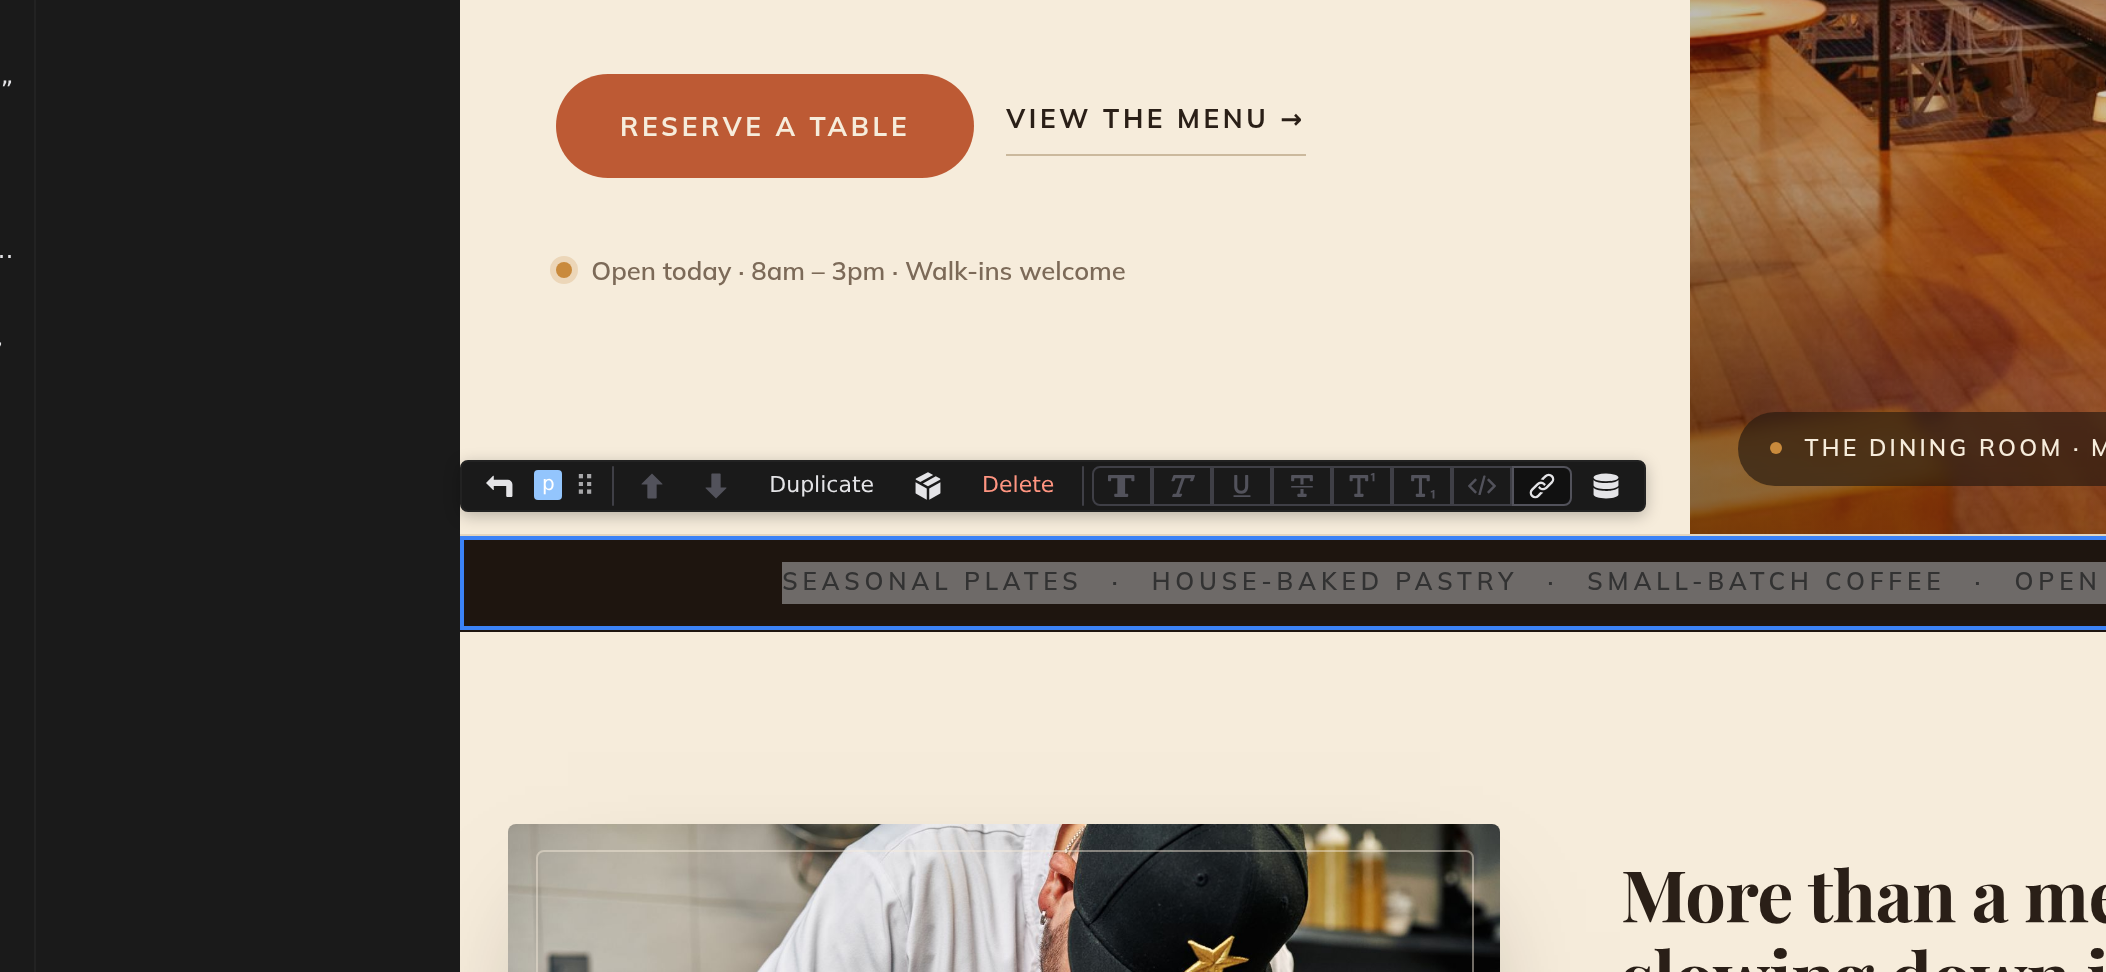
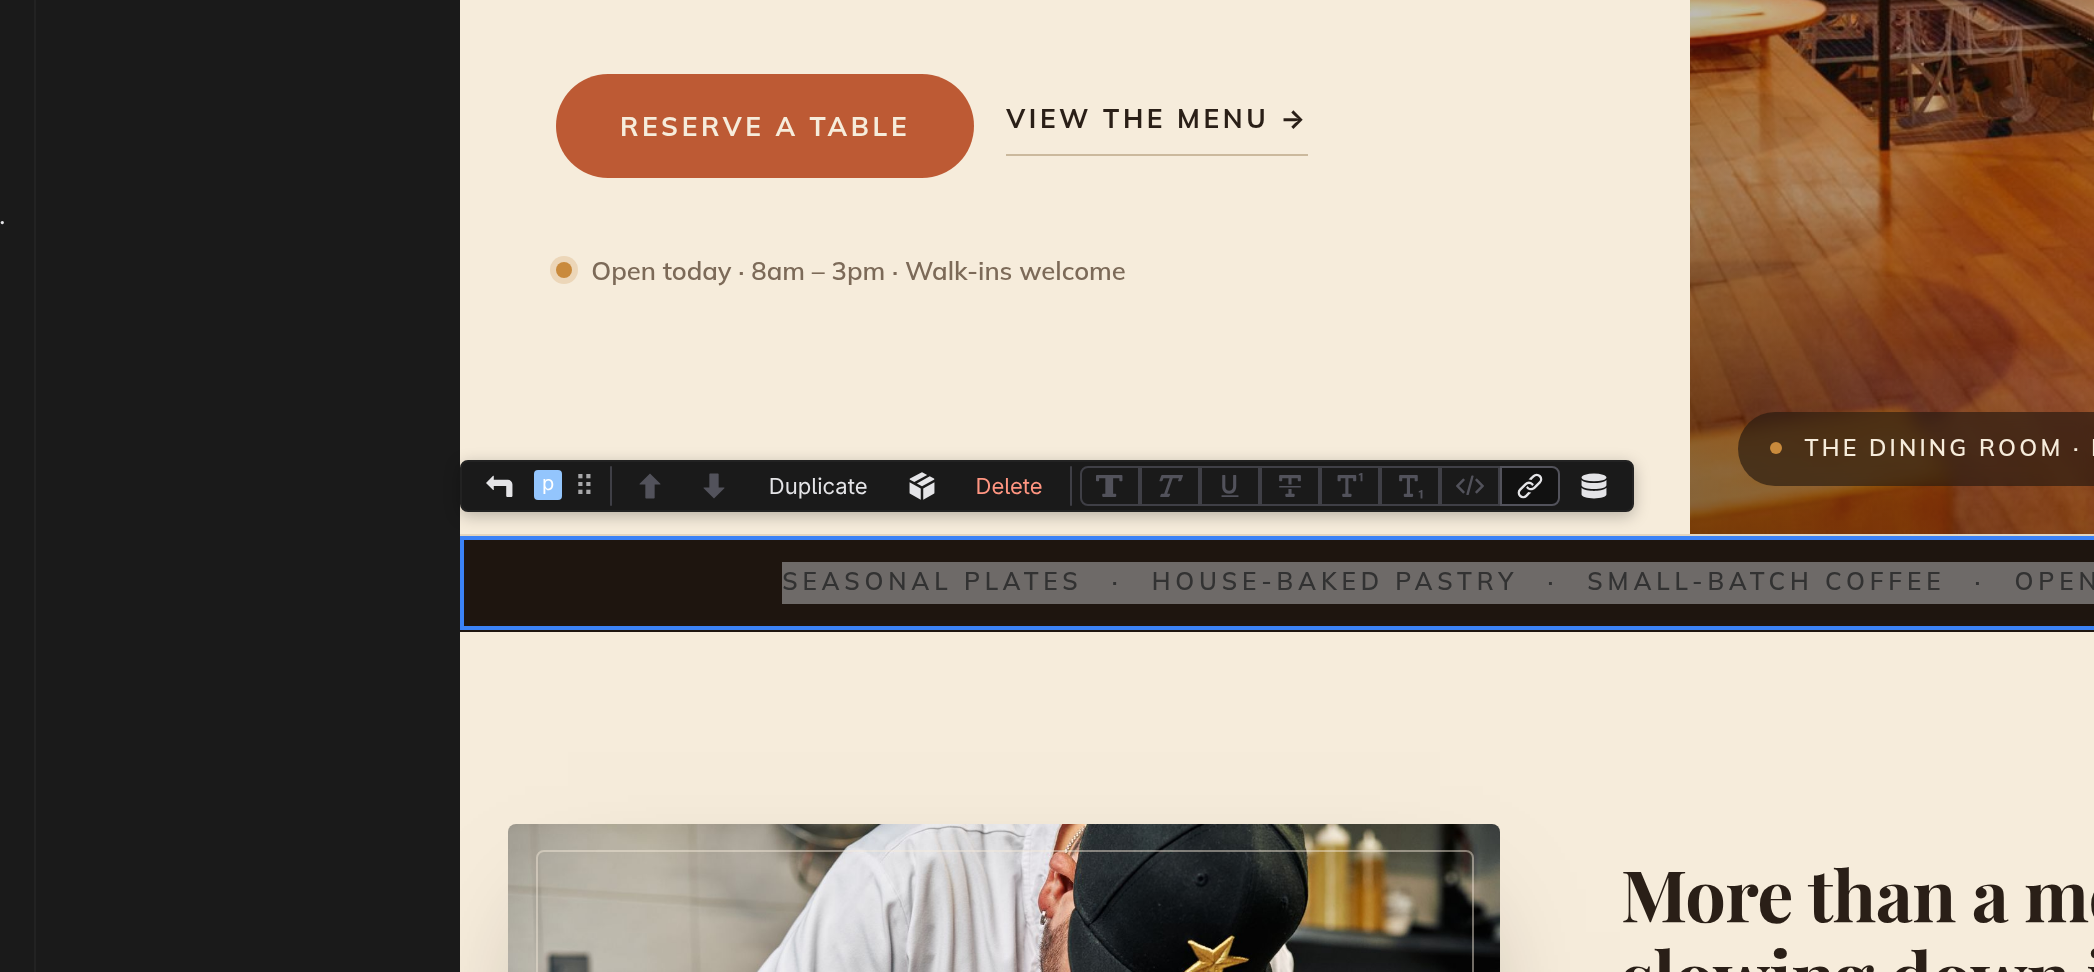
fix(screenshots): the four red shots were the stale starter pins, not the shots
block-action-bar, slash-menu, inline-editing and media-picker have been failing
on main, and slash-menu had never captured at all. The cause was not the shot
definitions: opening a starter whose @jxsuite ranges are four majors behind
raises Studio's "Update @jxsuite packages?" prompt, and that modal sits over the
canvas and swallows the click. No selection, so the block action bar renders
nothing and its region measures an empty box; no caret, so insert.openSlashMenu
refuses; no inspector row, so the media picker's browse region resolves to
nothing. Three different-looking failures, one cause.

Captured the full viewport mid-shot to find it, which is how the modal turned up
at all — the region-scoped captures had been photographing the area behind it.

With the ranges corrected all four pass, including slash-menu. No Studio change,
no manifest change, no quarantine, and no caret retarget: the shot definitions
were right the whole time.

The images are locally captured and the lock says so — `screenshots@local`
against `screenshots@ci/<run>`, and the runtime-spread note now reads "lock spans
2 runtimes". This PR touches starter manifests, so the lane re-captures these on
it and pushes debian bytes over them.

Also adds the assertion that would have surfaced the wasted work: docs:images:check
knew a page must not reference an unlocked image, but nothing knew a locked image
must be read by some page. Four shots were running on every lane invocation to
[…]

diff --git a/packages/studio/tests/image-lock.test.ts b/packages/studio/tests/image-lock.test.ts
@@ -698,6 +698,63 @@ describe("checkImageLock", () => {
     expect(used.warnings[0]).toContain("a docs page already references it");
   });
 
+  test("a locked image no page reads is a violation, naming the page the shot declares", () => {
+    // The direction nothing checked: `docs:check` owns "a page references an image the lock does
+    // Not name"; this owns the reverse. Three shots were running on every lane invocation to
+    // Produce bytes no page read, one of them 865 KB, and the only way to notice was to go looking.
+    const manifest = {
+      shots: [
+        { name: "hero", docs: ["studio/design"], capture: [{ image: "hero" }] },
+        { name: "ghost", docs: ["studio/ghosts"], capture: [{ image: "ghost" }] },
+      ],
+    };
+    const lock = lockOf({
+      "docs/images/ghost.png": entry({ shot: "ghost" }),
+      "docs/images/hero.png": entry({ shot: "hero" }),
+    });
+    const result = checkImageLock({
+      disk: [],
+      lock,
+      manifest,
+      refs: [{ image: "docs/images/hero.png", name: "hero", page: "docs/a.md" }],
+    });
+    const orphans = result.violations.filter((v) => v.includes("read by no docs page"));
+    expect(orphans).toHaveLength(1);
+    expect(orphans[0]).toContain("docs/images/ghost.png");
+    expect(orphans[0]).toContain('"studio/ghosts"');
+  });
+
+  test("a quarantined shot's image is exempt from the orphan rule", () => {
+    // Inverted on purpose: `docs:check` FAILS if a page still illustrates itself with a quarantined
+    // Shot, so demanding a reference here would make the two rules contradict each other.
+    const result = checkImageLock({
+      disk: [],
+      lock: lockOf({ "docs/images/ghost.png": entry({ shot: "ghost" }) }),
+      manifest: {
+        shots: [
+          {
+            name: "ghost",
+            docs: ["studio/ghosts"],
+            capture: [{ image: "ghost" }],
+            status: { state: "quarantined", reason: "why", since: "abc123" },
+          },
+        ],
+      },
+      refs: [{ image: "docs/images/hero.png", name: "hero", page: "docs/a.md" }],
+    });
+    expect(result.violations.filter((v) => v.includes("read by no docs page"))).toEqual([]);
+  });
+
+  test("the orphan rule is silent when no page scan happened", () => {
+    // The lane's `--report` mode passes no refs, and every image would look orphaned.
+    const result = checkImageLock({
+      disk: [],
+      lock: lockOf({ "docs/images/ghost.png": entry({ shot: "ghost" }) }),
+      manifest: { shots: [{ name: "ghost", capture: [{ image: "ghost" }] }] },
+    });
+    expect(result.violations.filter((v) => v.includes("read by no docs page"))).toEqual([]);
+  });
+
   test("quarantine is reported, its shape is enforced, and it silences the capture warning", () => {
     const result = checkImageLock({
       disk: [],

diff --git a/scripts/check-image-lock.ts b/scripts/check-image-lock.ts
@@ -738,6 +738,37 @@ export function checkImageLock(input: LockCheckInput): LockCheckResult {
     );
   }
 
+  // The other direction, which nothing asked until now: a picture NO page reads. `docs:check` owns
+  // "a page references an image the lock does not name"; this owns "the lock names an image no page
+  // References". Without it a shot runs on every invocation of a lane whose whole cost is minutes of
+  // Browser and a commit on someone's branch, to produce bytes nobody will ever see — and the only
+  // Way to notice was to go looking. Three shots were in that state, one of them 865 KB.
+  //
+  // Only when a page scan actually happened: the lane's `--report` mode passes no refs, and every
+  // Image would look orphaned.
+  if (refs.length > 0) {
+    for (const [path, entry] of Object.entries(entries)) {
+      const name = path.slice(path.lastIndexOf("/") + 1).replace(/\.png$/, "");
+      if (referenced.has(name)) {
+        continue;
+      }
+      const shot = byName.get(entry.shot);
+      if (shot?.status?.state === "quarantined") {
+        // A quarantined shot's image MUST be unreferenced — `docs:check` fails if a page still
+        // Illustrates itself with one. Requiring a reference here would be the opposite rule.
+        continue;
+      }
+      const declares = shot?.docs?.length
+        ? shot.docs.map((d) => `"${d}"`).join(", ")
+        : "no page at all";
+      violations.push(
+        `${path} is captured by shot "${entry.shot}" and read by no docs page. The shot declares ` +
+          `${declares} — illustrate it, or delete the shot, its image and its lock entry. ` +
+          `Deleting a shot is a first-class fix.`,
+      );
+    }
+  }
+
   for (const shot of shots) {
     const { status } = shot;
     if (!status) {

diff --git a/docs/studio/design/repeaters.md b/docs/studio/design/repeaters.md
@@ -19,6 +19,8 @@ A repeater renders one element once per item of a list — design a single card,
 4. Optionally pick a **Filter** or **Sort** function, if the document defines any.
 5. Click **Create Repeater**.
 
+![The Repeat dialog with an items source picker and optional filter and sort selectors](../../images/repeat-dialog.png)
+
 Your element is now the template of a repeater, marked **↻** in Outline. The repeated items render directly where the element stood — no wrapper is added around them.
 
 The command needs an element with a sibling position to repeat into, and refuses on the document root and on a repeater you have already made. See **[Commands](/docs/studio/interface/commands)** for the full list.

diff --git a/docs/studio/interface/canvas.md b/docs/studio/interface/canvas.md
@@ -47,6 +47,8 @@ You can also move the selection from the keyboard: :kbd[↑] and :kbd[↓] step 
 
 A small floating toolbar appears above the selected element:
 
+![The block action bar floating above a selected paragraph, showing the parent, tag, move, duplicate and formatting controls](../../images/block-action-bar.png)
+
 - A **back arrow** selects the parent element.
 - The **name badge** shows what's selected — the element's type or its name. When the element can become something else (a paragraph into a heading, for example), clicking the badge lists the conversions.
 - The **⠿ drag handle** — drag it to move the element somewhere else on the page.

diff --git a/docs/start/first-collection.md b/docs/start/first-collection.md
@@ -129,6 +129,8 @@ Open the **Data** panel (:kbd[⌘7]) and you should see `posts` worth `Array(3)`
 2. In the dialog, set **Items source** to `posts`.
 3. Click **Create Repeater**.
 
+![The Repeat dialog with posts chosen as the items source](../images/blog-repeat-dialog.png)
+
 Your card is now the repeater's _template_, marked **↻** in Outline. On the design canvas it still renders once — that's the template view. Everything about repeaters lives in **[Repeaters](/docs/studio/design/repeaters)**.
 
 ## 12. Bind the card to each post's fields

diff --git a/docs/studio/editing/slash-commands.md b/docs/studio/editing/slash-commands.md
@@ -11,6 +11,8 @@ code:
 
 The slash menu inserts blocks without leaving the keyboard: while editing text, type `/` and a menu of everything you can insert opens under your cursor. It's the fastest way to build a page up from a blank paragraph.
 
+![The slash menu open under the caret, its filter field above a list of block types](../../images/slash-menu.png)
+
 ## Insert a block
 
 1. While editing text, type :kbd[/] on an empty line or after a space.
